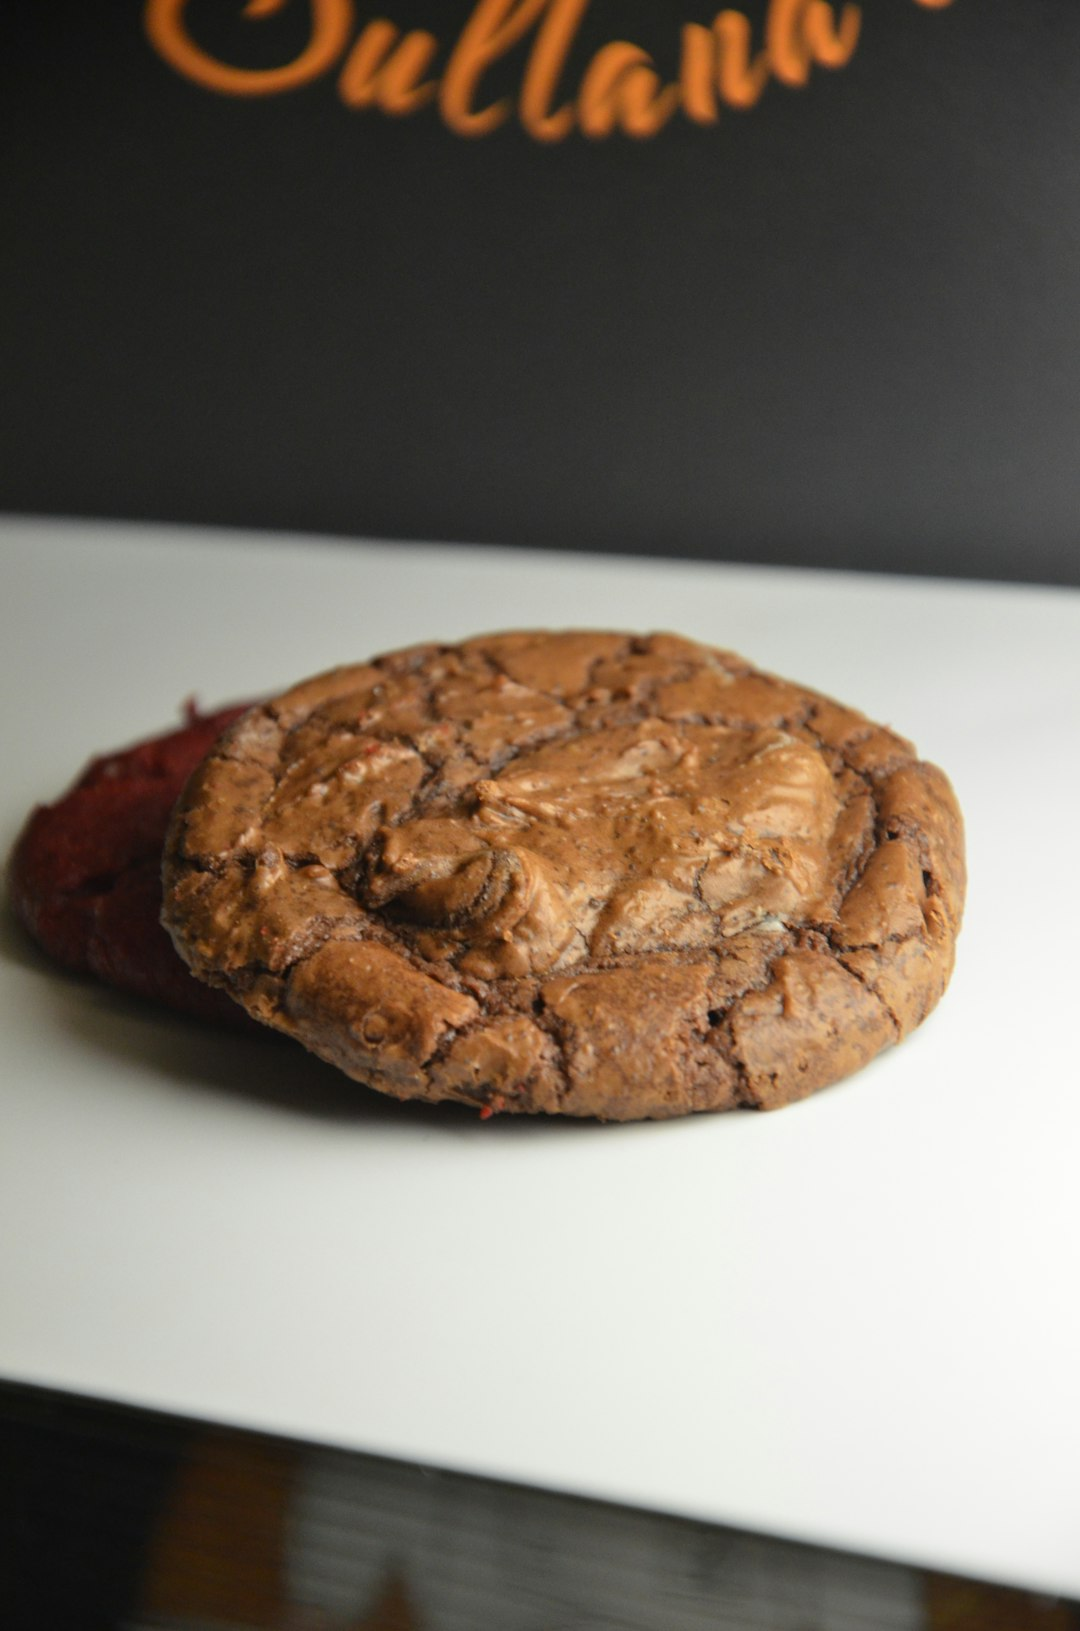
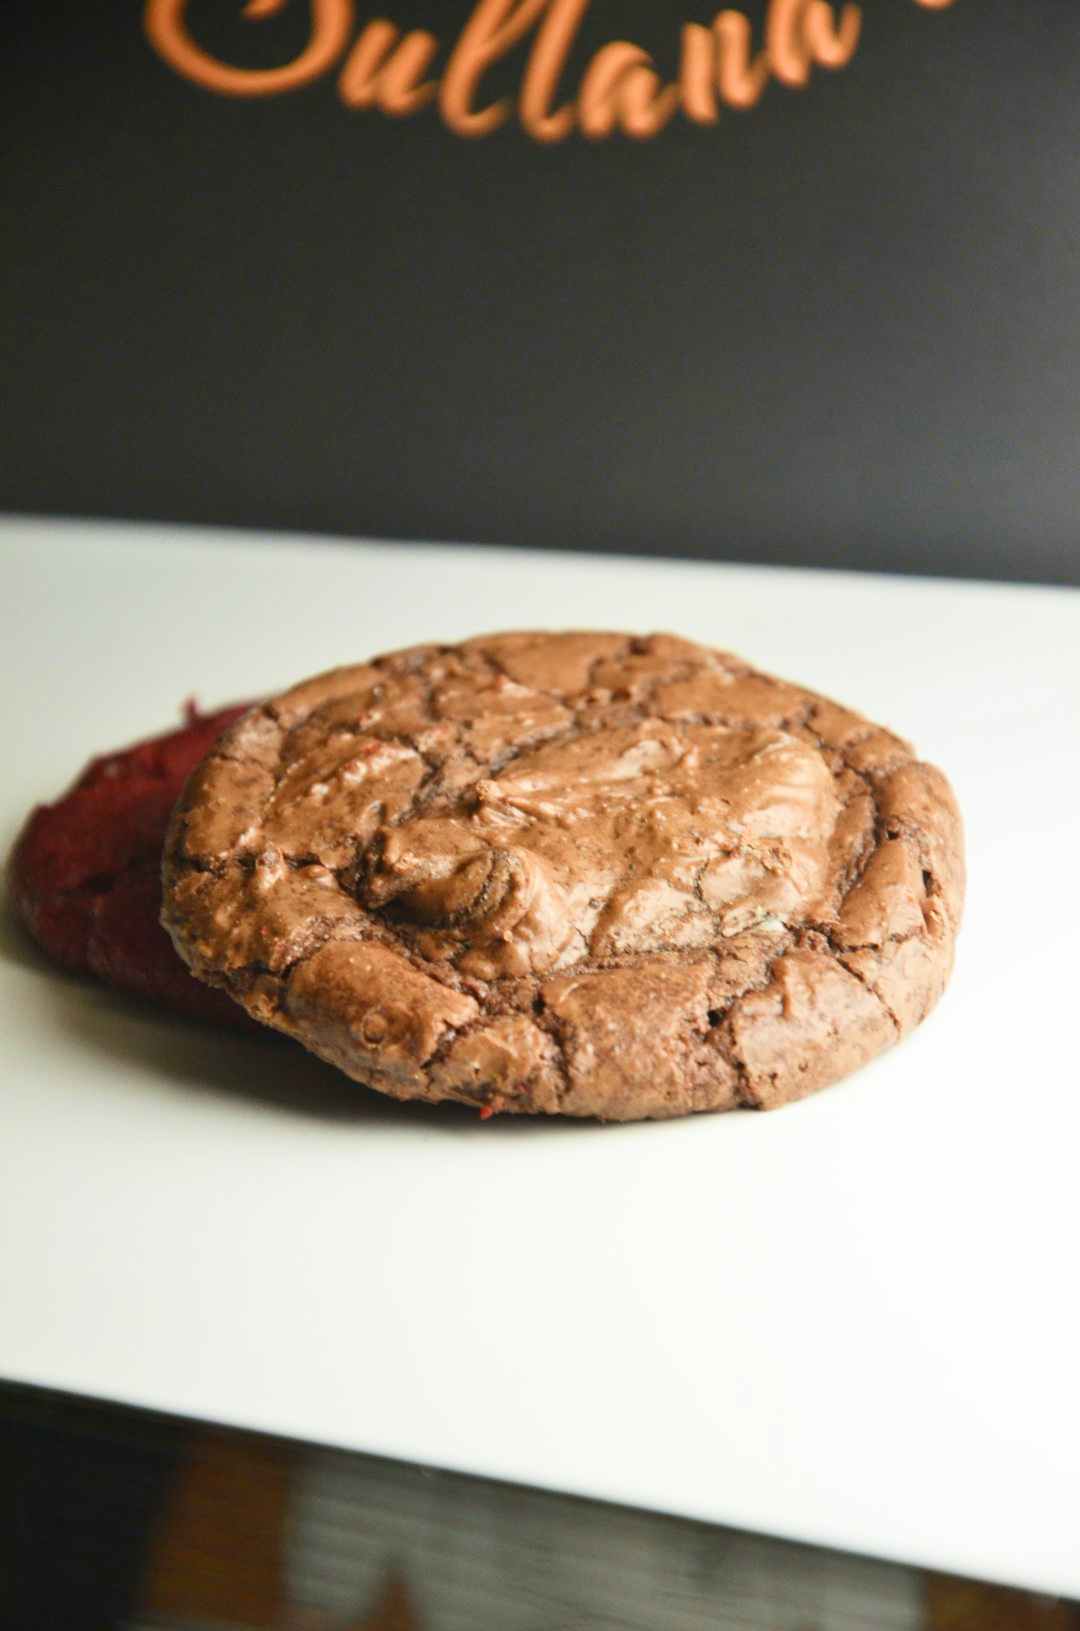
fix: 아카이브 추가

diff --git a/src/components/ArchiveSection.jsx b/src/components/ArchiveSection.jsx
@@ -18,6 +18,7 @@ import "swiper/css/pagination";
 import archiveRupa from "../assets/images/archive-rupa.png";
 import archiveDuzz from "../assets/images/archive-duzzonku.png";
 import archiveKuku from "../assets/images/archive-kuku.png";
+import archiveFract from "../assets/images/archive-fractal.png";
 
 gsap.registerPlugin(ScrollTrigger);
 
@@ -33,21 +34,21 @@ const ArchiveSection = ({ id, className }) => {
     },
     {
       id: 2,
-      title: "두쫀쿠 Promotion Webpage",
-      image: archiveDuzz,
-      href: SITE_LINKS.archive.duzzonku?.link,
-    },
-    {
-      id: 3,
       title: "KUKU from WAKUWAKU",
       image: archiveKuku,
       href: SITE_LINKS.archive.kuku?.link,
     },
     {
+      id: 3,
+      title: "두쫀쿠 Promotion Webpage",
+      image: archiveDuzz,
+      href: SITE_LINKS.archive.duzzonku?.link,
+    },
+    {
       id: 4,
-      title: "Character",
-      image: archiveKuku,
-      href: SITE_LINKS.archive.kuku?.link,
+      title: "Fractal glass design",
+      image: archiveFract,
+      href: SITE_LINKS.archive.fractal?.link,
     },
   ];
 

diff --git a/src/constants/links.js b/src/constants/links.js
@@ -28,13 +28,16 @@ export const SITE_LINKS = {
   },
   archive: {
     rupa: {
-      link: "https://drive.google.com/file/d/1UdVPZ8cef2bVP4nB2vETZ03kkd1FOf2I/view?usp=sharing"
+      link: "https://drive.google.com/file/d/1y6TebVxthFFzZLhzlIjsnV9Wz5gVZrnV/view?usp=sharing"
     },
     duzzonku: {
       link: "https://duzzonku.vercel.app/"
     },
     kuku: {
-      link: "https://drive.google.com/file/d/1Zis53VVT-0kmVMItAJzkAxq_6pOo7bpb/view?usp=sharing"
+      link: "https://drive.google.com/file/d/1-pceKpDUhiTXReTHDzj8oOc1a_SqvwSs/view?usp=sharing"
+    },
+    fractal: {
+      link: "https://drive.google.com/file/d/1_WHjl-AuN1EDtZhq2i4Ux3k6GK912z71/view?usp=sharing"
     },
   },
 };
